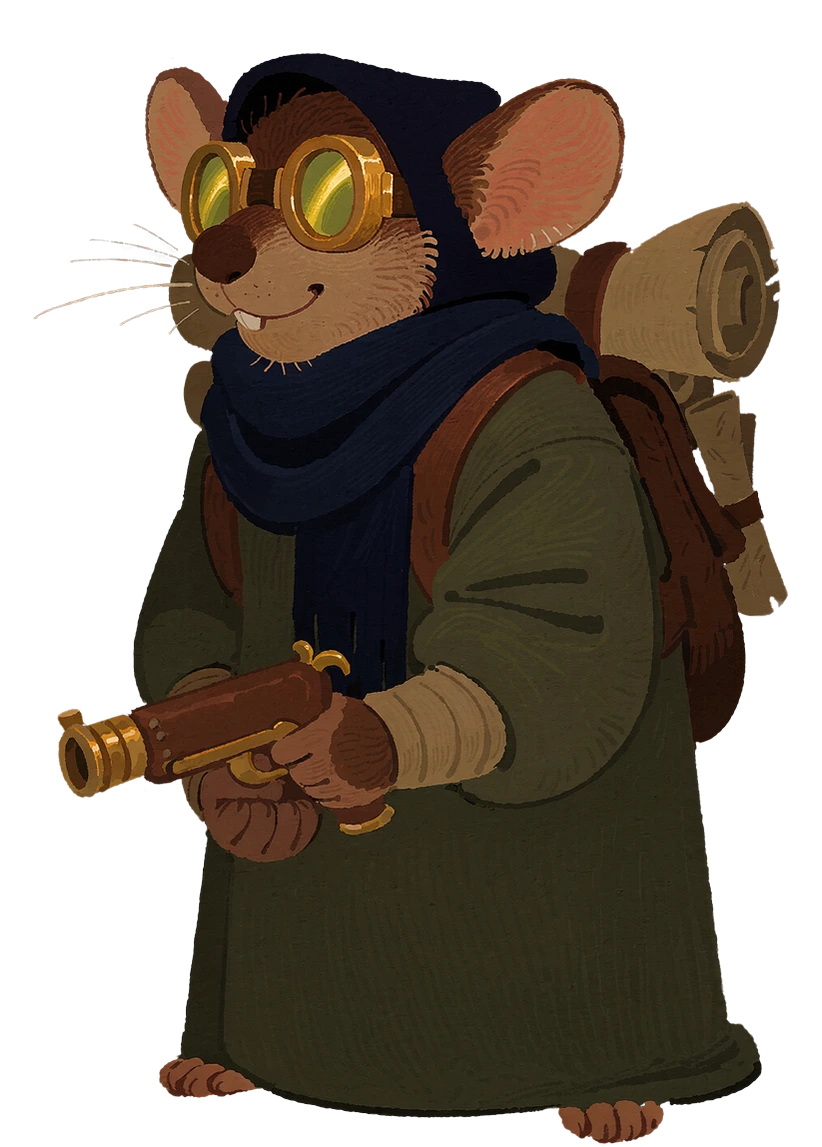
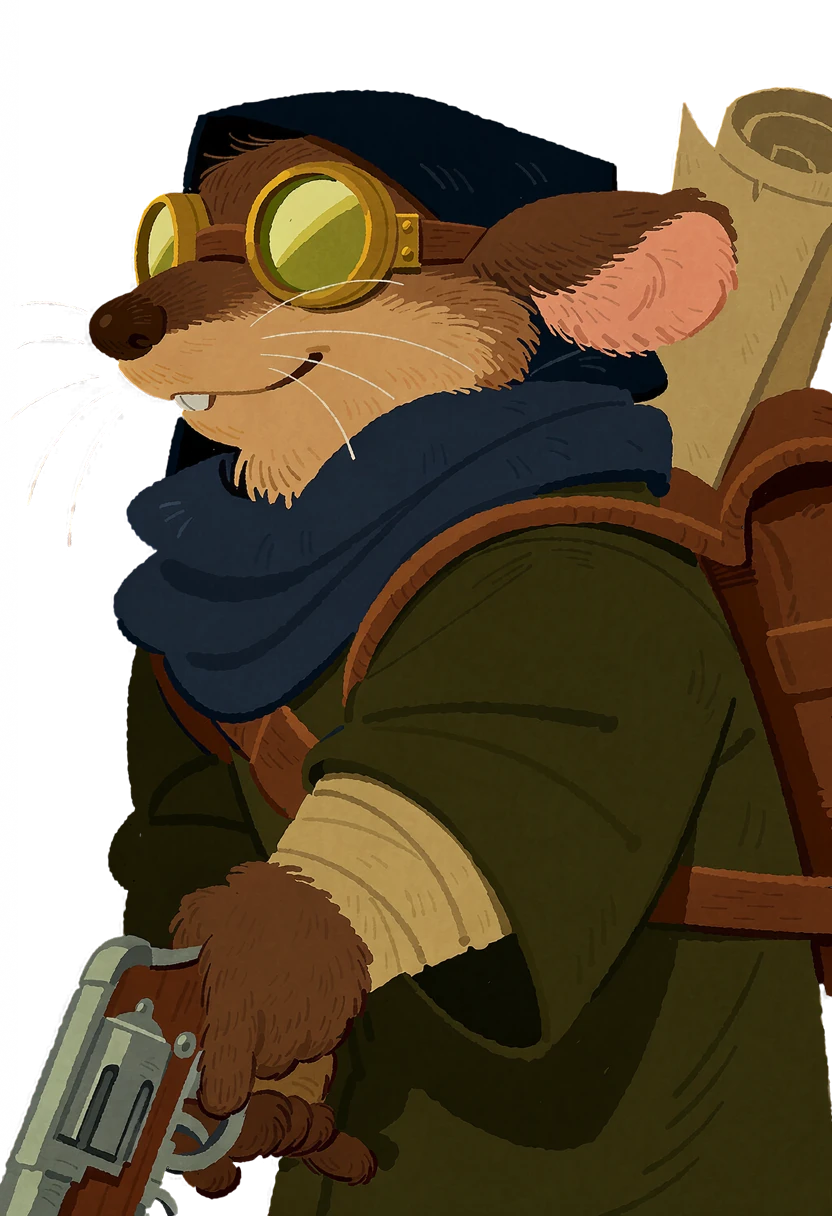
Kenin: the owner's illustrations (standing, gear, skill, memory, record full shot), move texts for the new rules
Claude-Session: https://claude.ai/code/session_01FzDataYedfiK9tzFLcKdoU

diff --git a/tools/memgen/sil.py b/tools/memgen/sil.py
@@ -3,7 +3,7 @@ from CSS drop-shadow, and black for the offset shadow. python3 tools/memgen/sil.
 import os
 from PIL import Image
 D = os.path.join(os.path.dirname(__file__), '..', '..', 'assets', 'ui', 'st')
-for c in ['estelle', 'aida', 'luce']:
+for c in ['estelle', 'aida', 'luce', 'kenin']:
     for k in ['skill', 'rec', 'old_base']:
         im = Image.open(os.path.join(D, '%s_%s.webp' % (c, k))).convert('RGBA')
         a = im.getchannel('A').resize((im.width // 2, im.height // 2), Image.LANCZOS)

diff --git a/docs/HANDOFF.md b/docs/HANDOFF.md
@@ -154,8 +154,9 @@ main에 푸시하면 GitHub Actions가 웹·윈도우로 빌드해서 GitHub Pag
   - **테스트 빌드: 모든 동료가 처음부터 영입됨** (`fame.gd` ALL_IN = true, 오너 요청 2026-11-04). 정식 흐름으로 돌릴 땐 false. 테스트·캡처 스크립트(-s)는 원래 흐름
   - 크기: SCALE 0.88 (머리 크기를 맞춤). Sprite Flow 캔버스가 두 종류(960×960 / 1112×834)라 모션마다 키가 달랐음 → trim.py가 모션별 첫 프레임 키로 맞춤(서 있는 키 186px). 밝기: pack_kenin.py의 tone() — Sprite Flow 프레임이 너무 어두워서 밝기 분위수 곡선으로 보정
   - QTE 원호는 적의 등 뒤(조작 중인 동료 반대편)에서 나타남 (오너 요청)
-  - **임시(PLACEHOLDER)**: kenin.gd의 모든 수치, STATS/ULTMAX, 노드 트리(전부 "(예정)"), 시작 장비 이름, 마을 대사·브랜 대사(「(임시)」 표기), 스킬 탭 설명의 숫자, 서 있는 그림·얼굴·초상·궁 일러(원화 크롭), 스킬 아이콘(선 그림 폭탄), 총소리·폭발음(기존 stab·heavy·slam 재활용)
-  - 필요한 에셋(오너에게 요청): 총소리·폭발음·폭탄 붙는 소리(상용 팩), 서 있는 그림 세트(base/cl/smile/sup), 피격 초상, 얼굴, 궁 컷씬 영상, 스킬 아이콘
+  - **임시(PLACEHOLDER)**: kenin.gd의 모든 수치, STATS/ULTMAX, 노드 트리(전부 "(예정)"), 시작 장비 이름, 마을 대사·브랜 대사(「(임시)」 표기), 스킬 탭 설명의 숫자, 얼굴·초상·궁 일러(원화 크롭), 스킬 아이콘(선 그림 폭탄), 총소리·폭발음(기존 stab·heavy·slam 재활용)
+  - 일러 받음 (2026-11-04): 기본 `kenin_base`, 장비 `kenin_gear`, 스킬 `kenin_skill`, 기억 `kenin_rec`, 메모리얼 전 기록 전체샷 `kenin_old_base` (표정 하나 — 기록 대사 표정은 base로 대체), 실루엣은 tools/memgen/sil.py
+  - 필요한 에셋(오너에게 요청): 총소리·폭발음·폭탄 붙는 소리(상용 팩), 표정 차분(cl/smile/sup), 피격 초상, 얼굴, 궁 컷씬 영상, 스킬 아이콘, 메모리얼 일러(`kenin_mem` + 눈 감은 `_mem_c`)
   - 테스트 `tests/test_kenin.gd`, 녹화 `tools/capture/movie_kenin.gd`
 
 ## 5. 이번 세션에 끝낸 것 (모두 main, 푸시·배포 완료)
